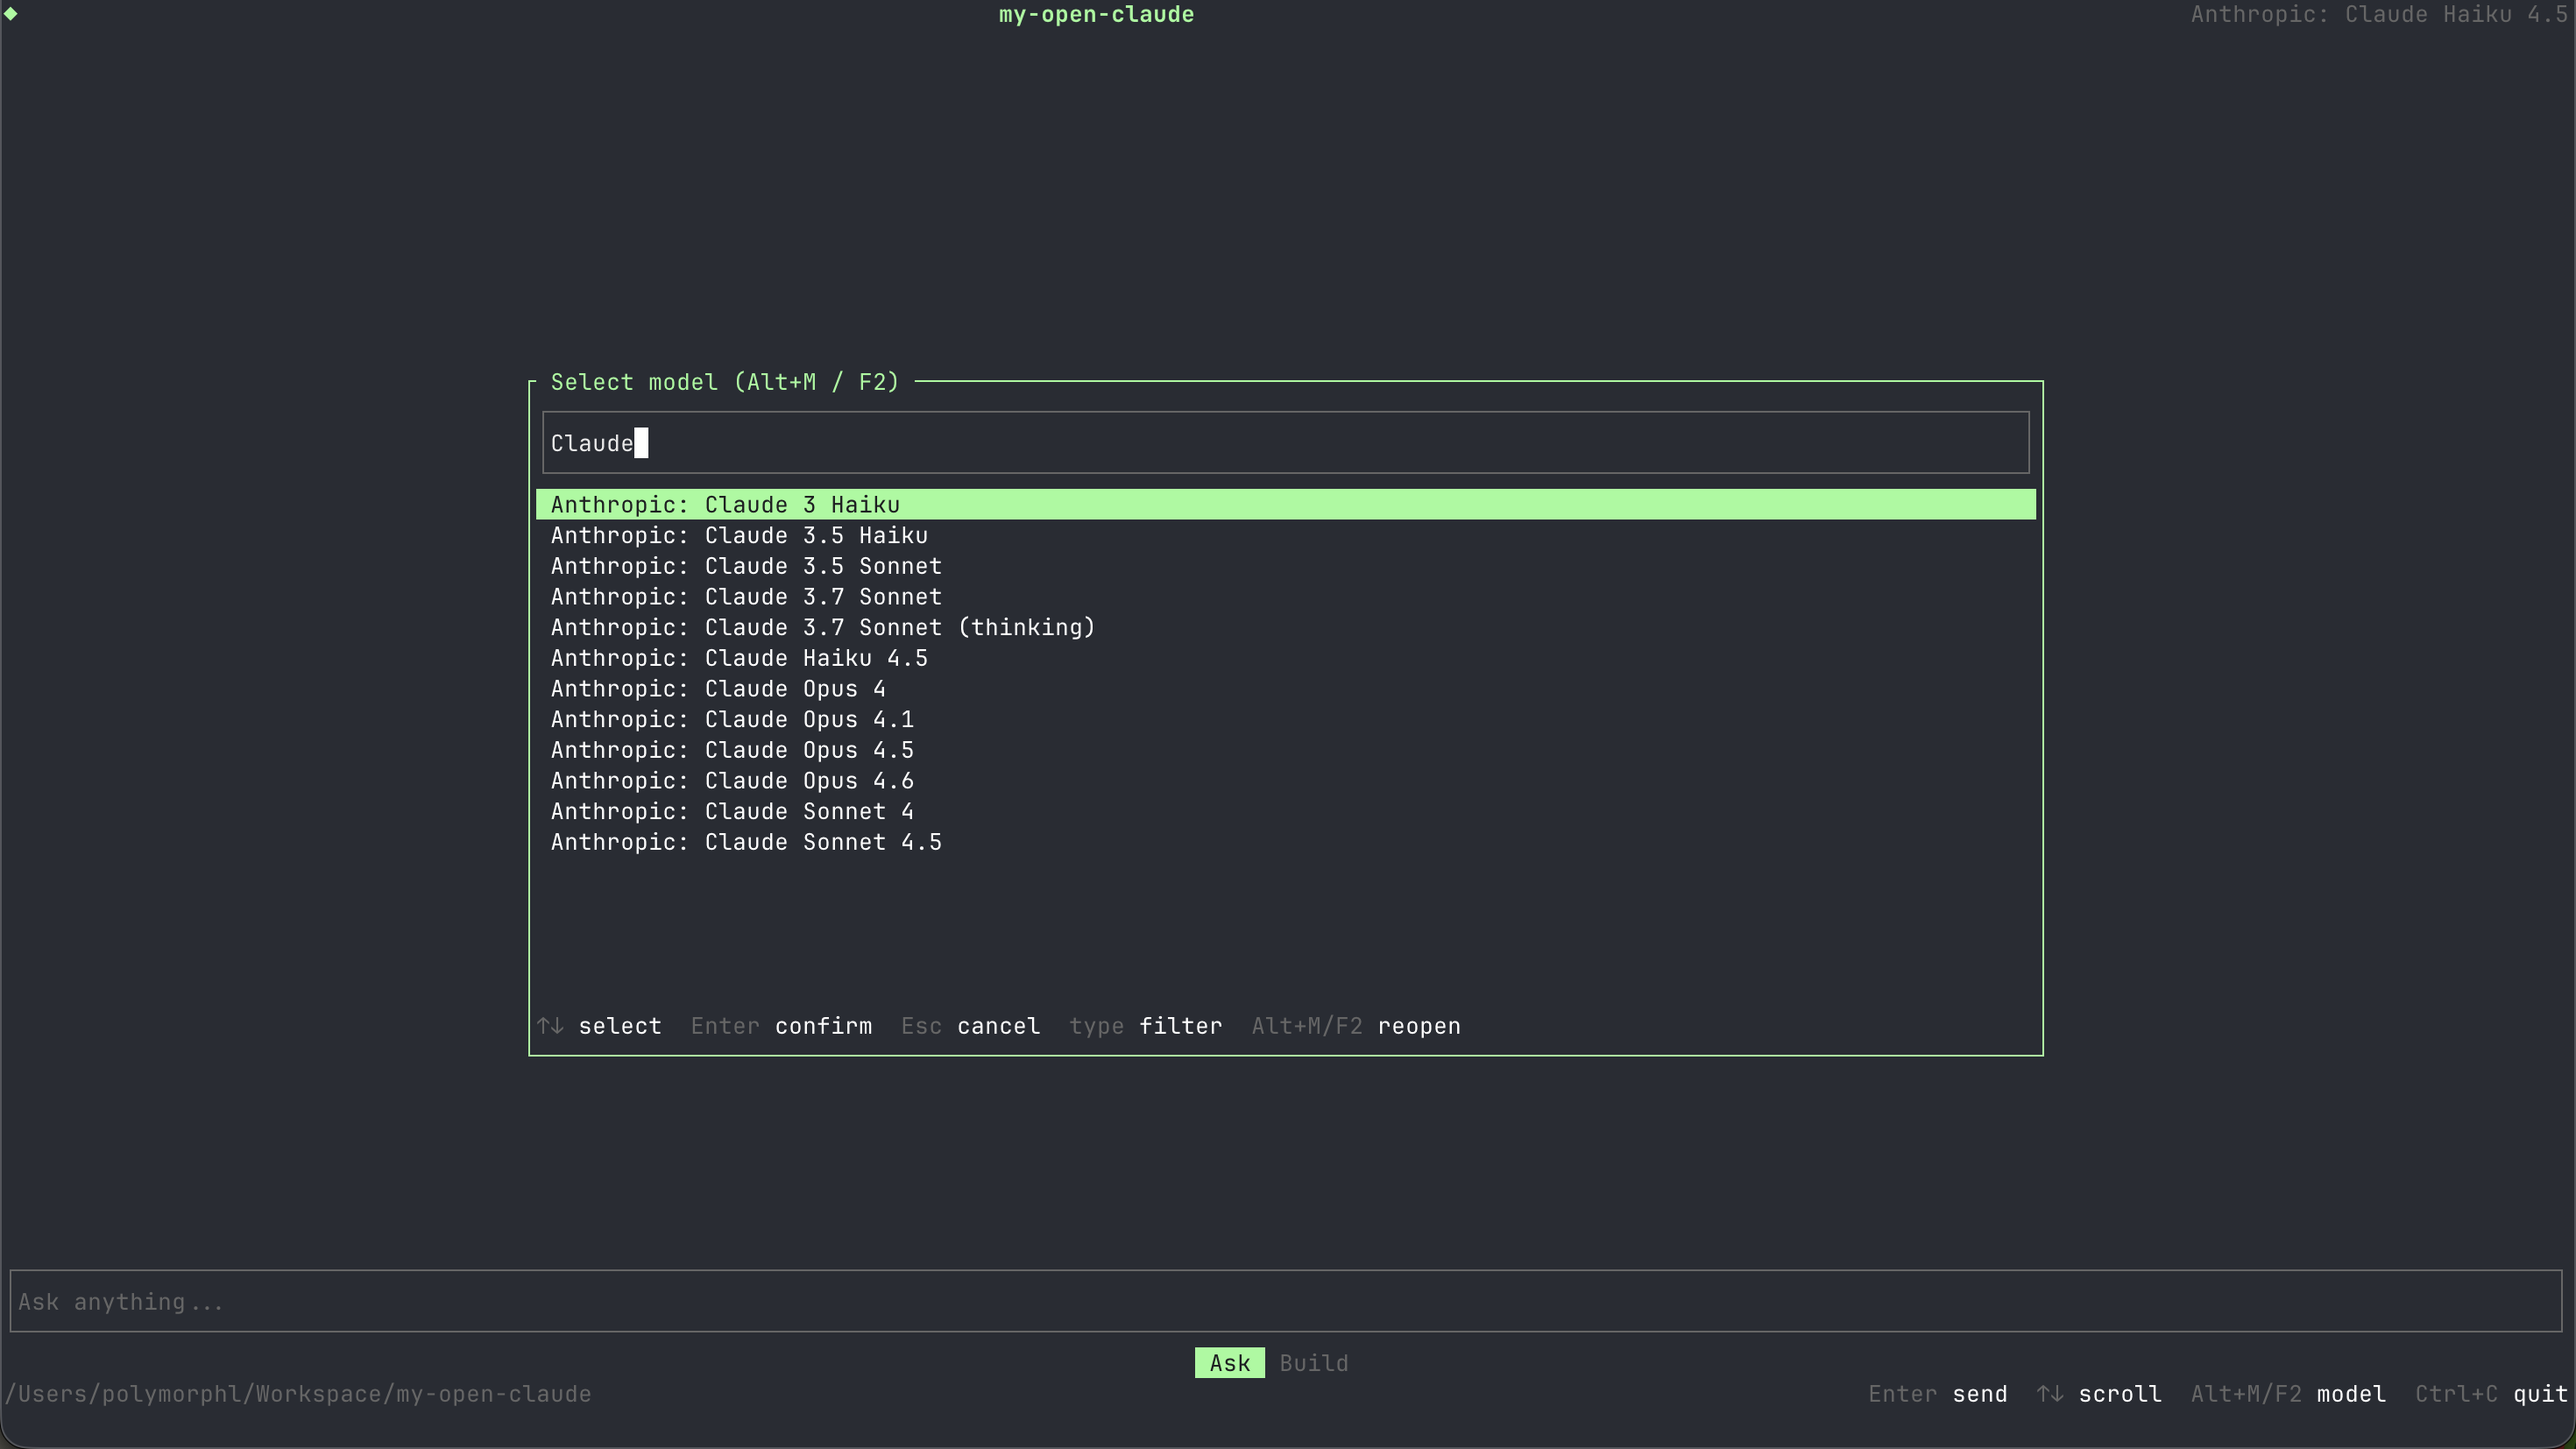
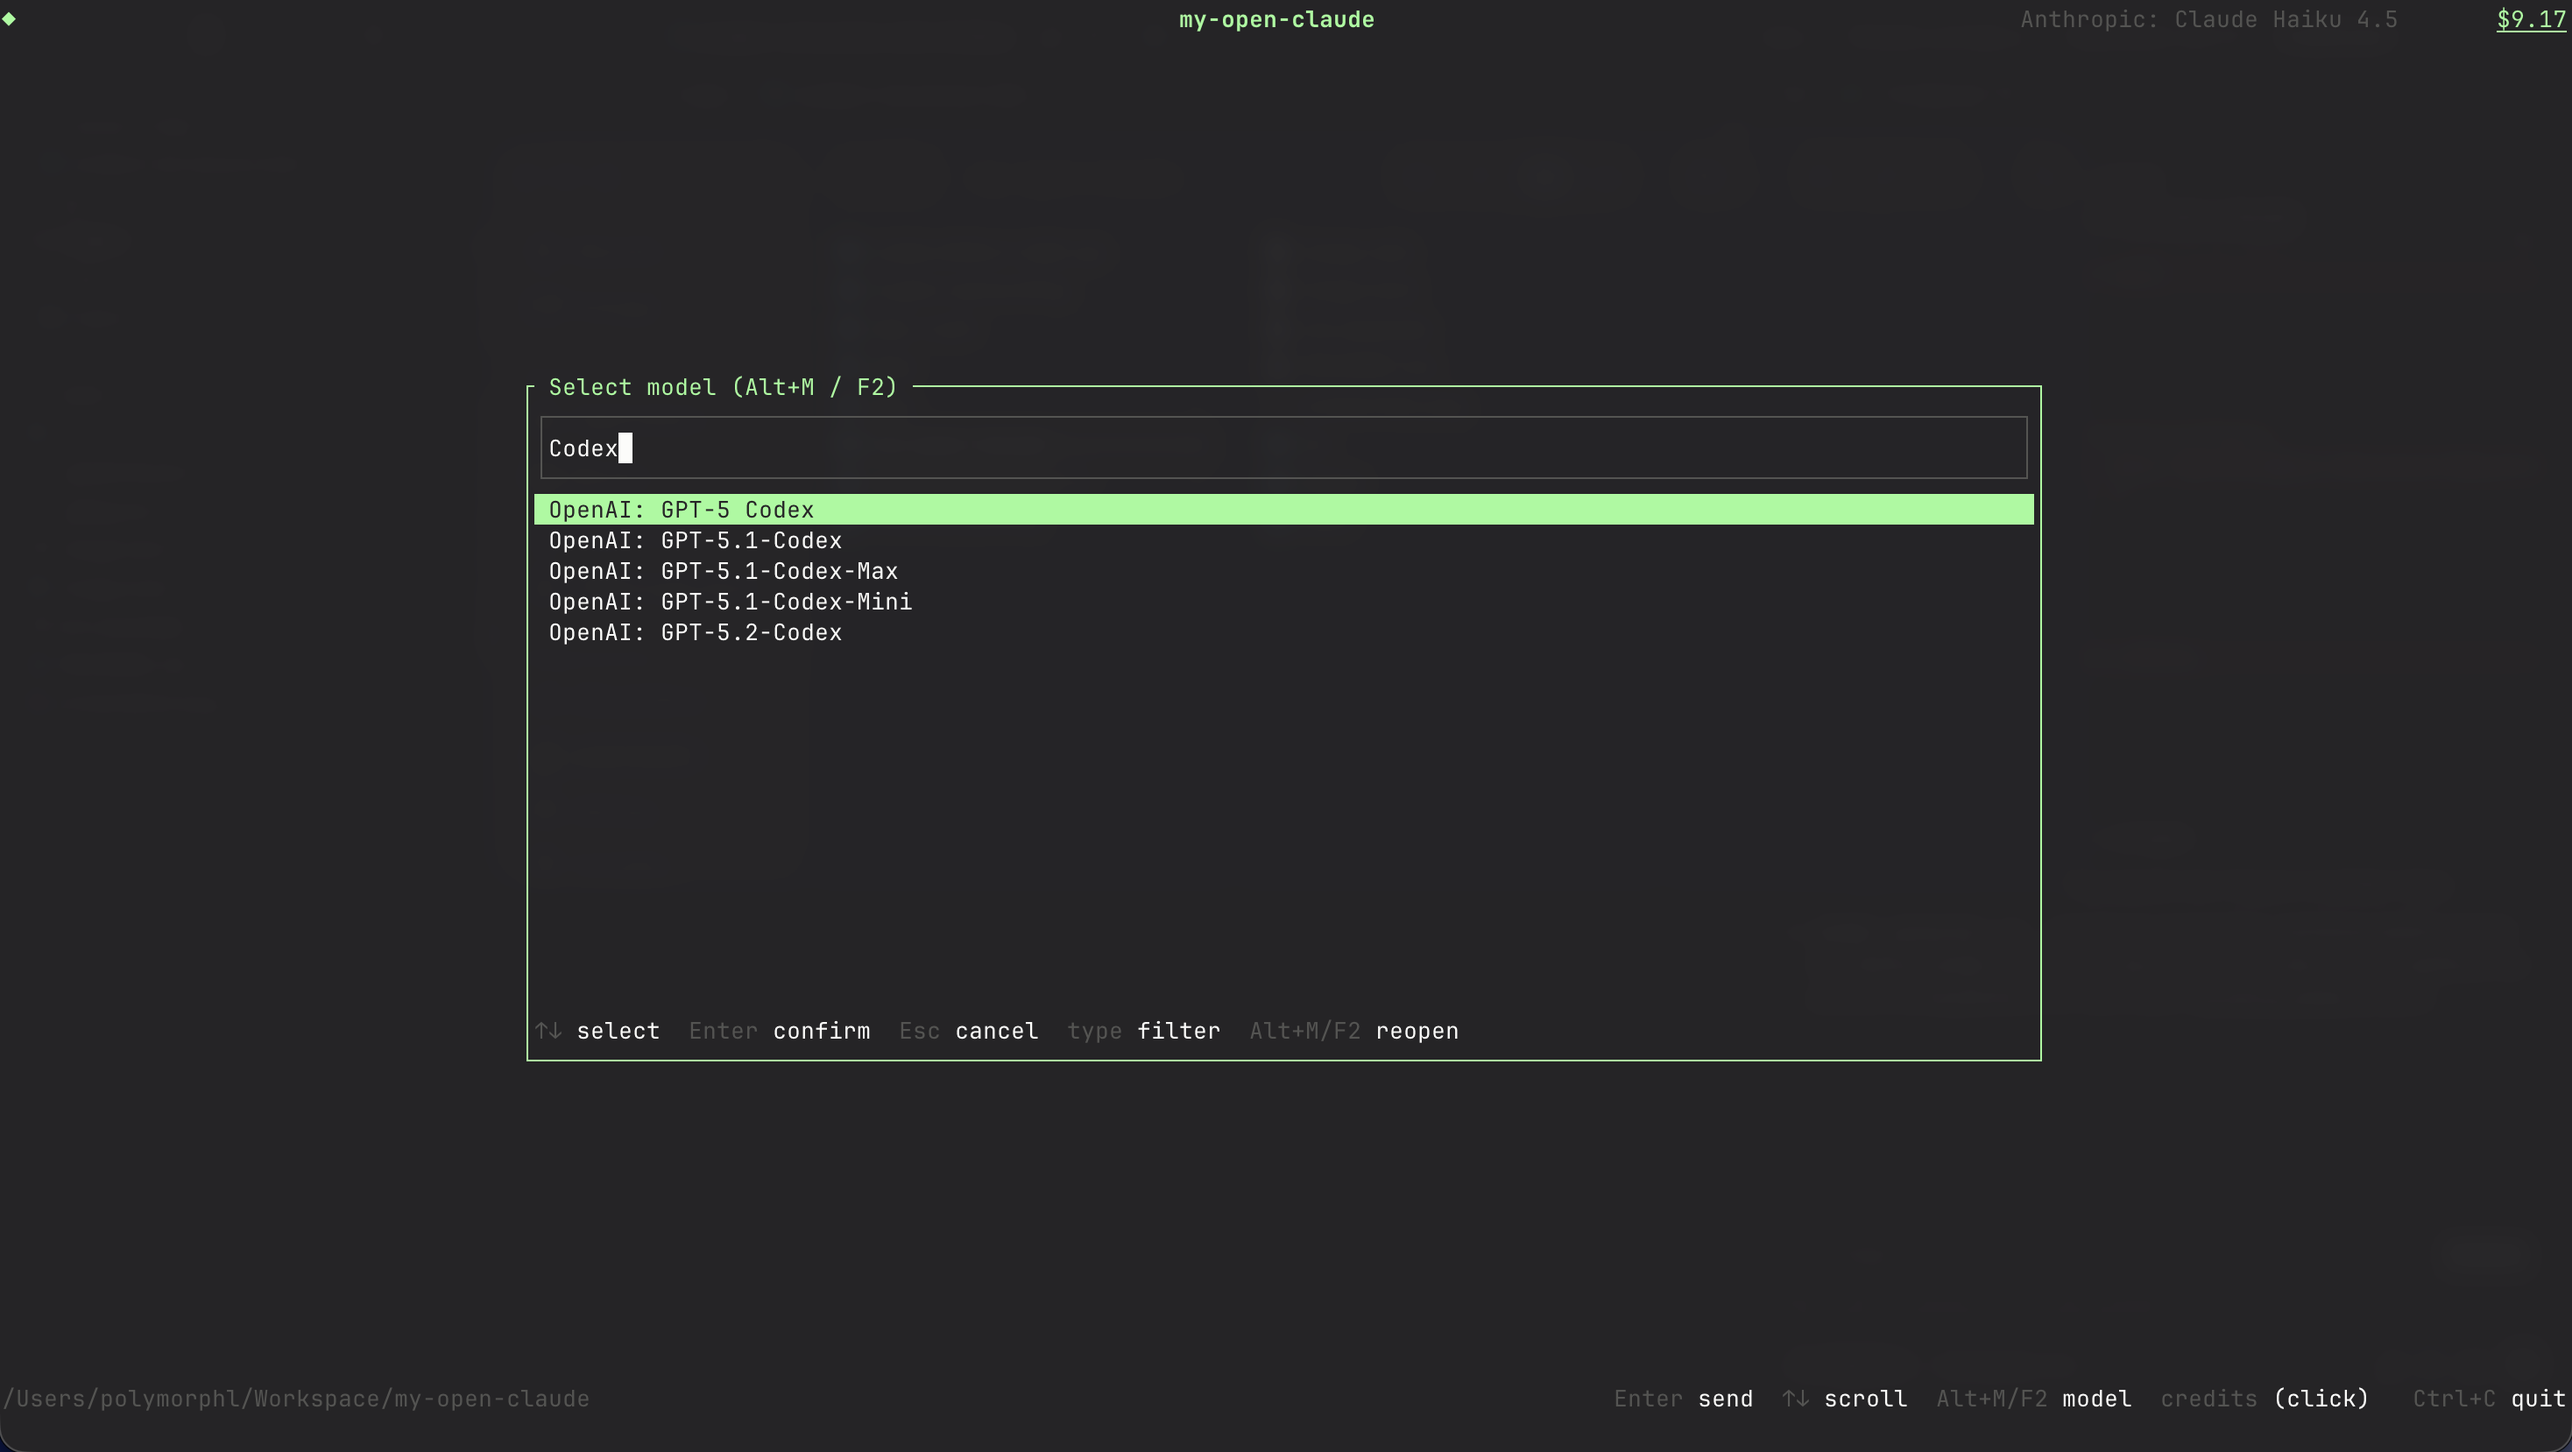
Update README to include credit balance feature details and enhance project structure documentation. Update screenshot file.

diff --git a/README.md b/README.md
@@ -11,6 +11,7 @@ LLM-powered coding assistant written in Rust. It understands code and performs a
 - **Tool calling**: OpenAI-compatible API (read, write, bash, etc.)
 - **OpenRouter**: use models via the OpenRouter API (or other OpenAI-compatible backends)
 - **Model selector**: choose from tool-capable models (Alt+M / F2), with persisted selection
+- **Credit balance**: OpenRouter balance displayed in the header; click to open your account settings
 
 ## Prerequisites
 
@@ -66,6 +67,10 @@ cargo run
 cargo run -- -p "Explain what this project does"
 ```
 
+### Credit balance
+
+The header shows your OpenRouter credit balance (total minus usage). Click it to open your credits page. Balance is fetched on startup and refreshed every 30 minutes. Requires a Management API key; regular keys may see "—" instead.
+
 ### Model selection
 
 - Press **Alt+M** (or **F2**, or **Option+M** on macOS) to open the model selector.
@@ -76,10 +81,8 @@ cargo run -- -p "Explain what this project does"
 ## Project structure
 
 - `src/main.rs` — entry point, CLI parsing, TUI or prompt mode launch
-- `src/core/` — LLM logic, config, agent loop, tools (read, write, bash), model fetching
-- `src/core/models.rs` — fetch models from OpenRouter (tool support), filter by name/id
-- `src/core/models_cache.rs` — 24h cache for models list
-- `src/core/model_info.rs` — `ModelInfo` type for display and selection
-- `src/core/persistence.rs` — persist last selected model
-- `src/tui/` — terminal UI (app, drawing, text handling)
-- `src/confirm.rs` — confirmation before executing actions
+- `src/core/` — business logic: config, credits, confirm, persistence, LLM (agent loop, tools), models (fetch, cache)
+- `src/core/llm/` — chat, agent loop, tool execution, streaming
+- `src/core/models/` — model discovery, 24h cache, filtering
+- `src/core/tools/` — read, write, bash
+- `src/tui/` — terminal UI: app state, handlers (key/mouse), draw (header, history, input, popups)
